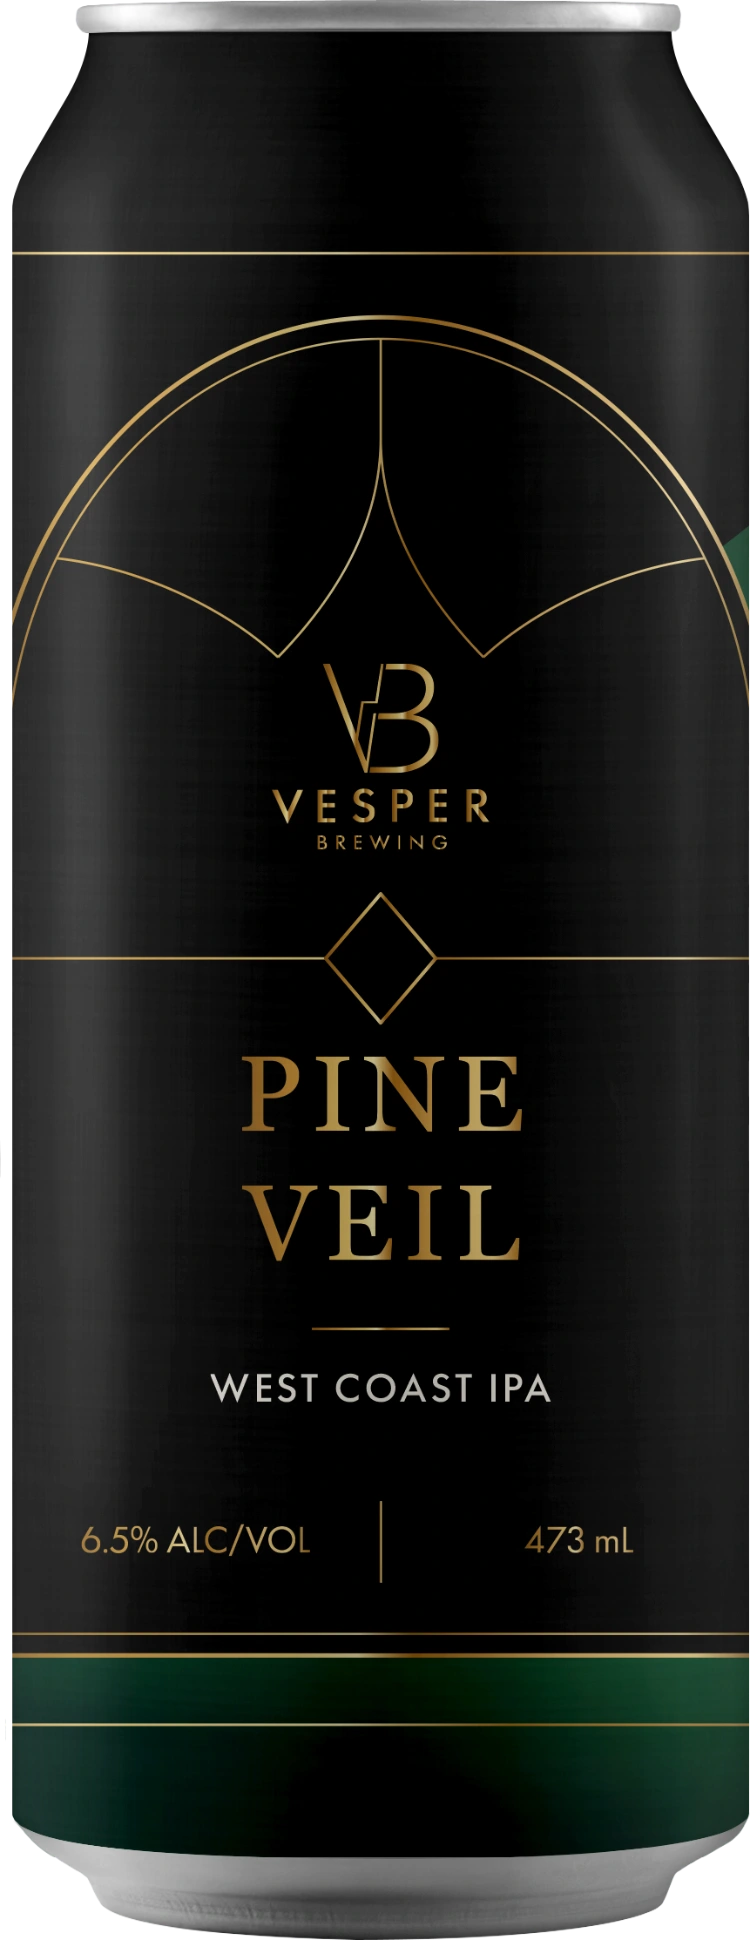
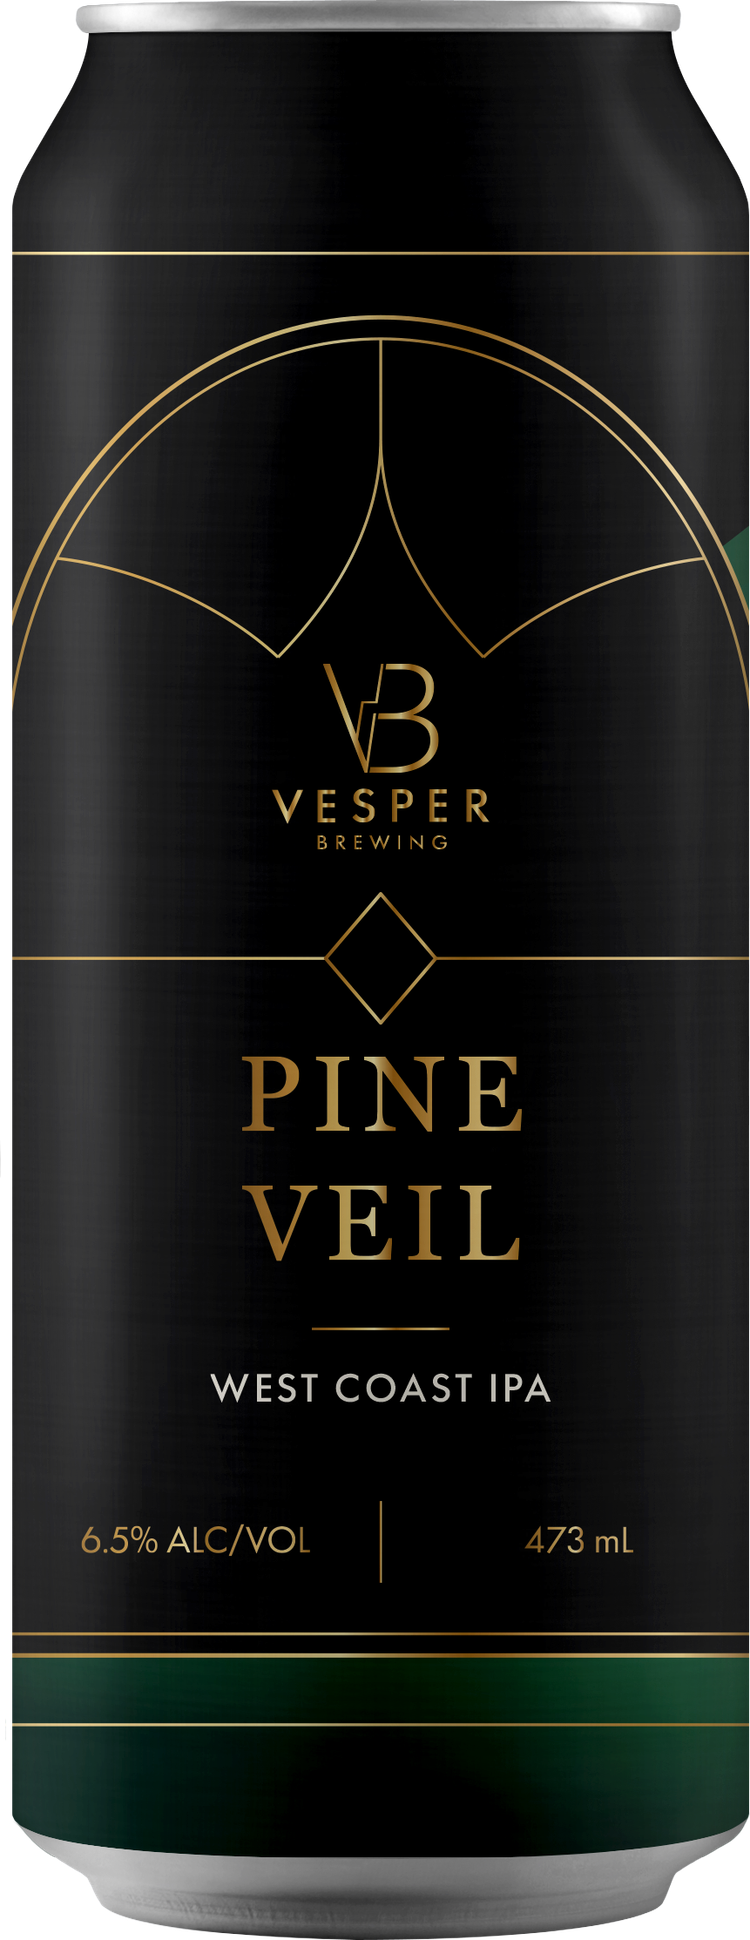
Refresh product artwork and viewer notes

diff --git a/javascript/can-viewer.js b/javascript/can-viewer.js
@@ -8,8 +8,7 @@
   const status = document.querySelector('#can-status');
   const reducedMotion = window.matchMedia('(prefers-reduced-motion: reduce)');
   const tau = Math.PI * 2;
-  // Sleeve placement and front registration measured from the supplied PSD.
-  // Texture distance must stay proportional to angle around the cylinder.
+  // Use the sleeve position and front alignment measured in the source PSD.
   const sleeveTop = 36 / 2227;
   const sleeveHeight = 2096 / 2227;
   const frontCenter = 1496.5 / 3018;
@@ -31,6 +30,7 @@
   const normalize = value => ((value + Math.PI) % tau + tau) % tau - Math.PI;
 
   function uAt(theta) {
+    // Map equal turns to equal distances on the flat artwork.
     return frontCenter + theta / tau;
   }
 
@@ -61,7 +61,7 @@
     if (!width || canvas.width === width && columns.length) return;
     canvas.width = layer.width = width;
     canvas.height = layer.height = Math.round(width * 1940 / 750);
-    // Body bounds measured from the source silhouette, rather than a drawn can.
+    // Use the source silhouette to map screen columns to angles on the can.
     const axis = width * 436.5 / 861;
     const radius = width * 423.5 / 861;
     columns = Array.from({ length: width }, (_, x) => ({
@@ -73,7 +73,7 @@
   }
 
   function prepareLighting() {
-    // Reuse a full-width unprinted row just below the shoulder for its studio sheen.
+    // Sample an unprinted row below the shoulder to match the mockup lighting.
     lighting.width = canvas.width;
     lighting.height = 1;
     lightingCtx.drawImage(frontImage, 0, Math.round(frontImage.height * .12), frontImage.width, 1, 0, 0, lighting.width, 1);
@@ -94,8 +94,7 @@
     const sleeveY = sleeveTop * height;
     const sleevePixels = sleeveHeight * height;
     const circumference = width * 423.5 / 861 * tau;
-    // One full wrap keeps the source artwork's width-to-height ratio.
-    // Leave unprinted can above/below it rather than stretching it vertically.
+    // Size the artwork by the can circumference to preserve its proportions.
     const labelHeight = Math.min(sleevePixels, circumference * wrapImage.height / wrapImage.width);
     const top = sleeveY + (sleevePixels - labelHeight) / 2;
     layerCtx.fillStyle = '#101010';
@@ -119,7 +118,7 @@
     layerCtx.globalCompositeOperation = 'screen';
     layerCtx.fillStyle = lightingPattern;
     layerCtx.fillRect(0, sleeveY, width, sleevePixels);
-    // Original photographic alpha keeps the shoulder, base, and edges intact.
+    // Mask the sleeve with the mockup to preserve the can silhouette.
     layerCtx.globalCompositeOperation = 'destination-in';
     layerCtx.drawImage(frontImage, 0, 0, width, height);
     layerCtx.globalCompositeOperation = 'source-over';
